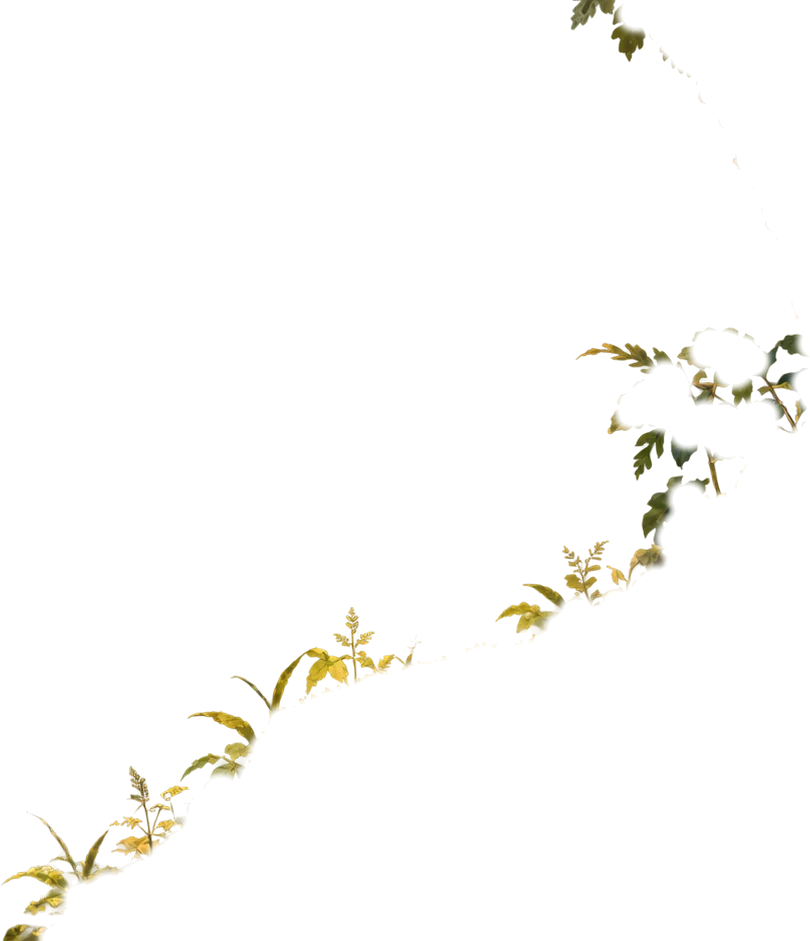
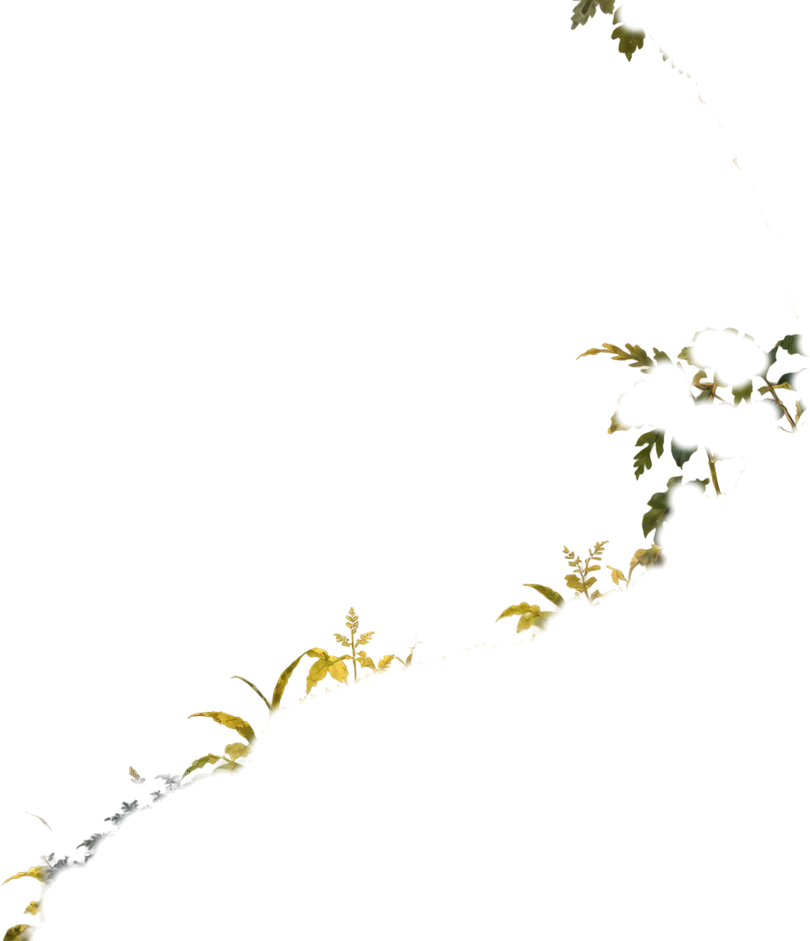
Update to layer set v7 (repainted duplicates, canopy edge, moon branch); legacy patches now opt-in, lighter foreground shade
Claude-Session: https://claude.ai/code/session_0178fiKuzCTDLTmbjUn3RG9Q

Changed region(s): [[0.0309, 0.8013, 0.3086, 1.0]]

diff --git a/me-mori-intro.html b/me-mori-intro.html
@@ -555,8 +555,8 @@
           { src:'assets/paper/forest3/03-trees-right-twigs.webp', x:764, y:0, w:810, h:941, ox:1560, oy:520, depth:0.25, sway:{ amp:0.45, period:6.6, bend:0.5, gust:1.1 } },
           { src:'assets/paper/forest3/lake.webp', x:70, y:351, w:1151, h:526, depth:0.2, className:'lake-ripple' },
           { src:'assets/paper/forest3/bank-beetle.webp', x:0, y:17, w:1672, h:924, depth:0.5 },
-          { src:'assets/paper/forest3/fg-shade.webp', x:0, y:294, w:1672, h:647, depth:.5 },
-          { src:'assets/paper/forest3/08-overhead-leaves.webp', x:496, y:0, w:694, h:210, ox:850, oy:-40, depth:0.45, shadow:true, sway:{ amp:0.45, period:8, bend:0.55 } },
+          { src:'assets/paper/forest3/fg-shade.webp', x:0, y:295, w:1672, h:646, depth:.5 },
+          { src:'assets/paper/forest3/08-overhead-leaves.webp', x:495, y:0, w:704, h:211, ox:850, oy:-40, depth:0.45, shadow:true, sway:{ amp:0.45, period:8, bend:0.55 } },
           { src:'assets/paper/forest3/09-foreground-left.webp', x:0, y:332, w:588, h:609, ox:150, oy:980, depth:1, sway:{ amp:0.5, period:7.5, bend:0.7 } },
           { src:'assets/paper/forest3/10-foreground-bottom.webp', x:578, y:726, w:704, h:215, ox:930, oy:990, depth:0.9, sway:{ amp:0.45, period:5.6, bend:0.75 } },
           { src:'assets/paper/forest3/11-foreground-right.webp', x:1217, y:728, w:455, h:213, ox:1500, oy:990, depth:0.9, sway:{ amp:0.5, period:6.4, bend:0.7 } }

diff --git a/tools/paper-cut/build_forest.py b/tools/paper-cut/build_forest.py
@@ -12,6 +12,7 @@ Prints the layer list (src, x, y, w, h) as JSON.
 import sys, json, numpy as np, cv2
 from PIL import Image
 SRC, OUT = sys.argv[1].rstrip('/') + '/', sys.argv[2].rstrip('/') + '/'
+LEGACY = '--legacy-fixes' in sys.argv   # patches for defects of layer set v6 (fixed in v7 art)
 W, H = 1672, 941
 def load(n): return np.array(Image.open(SRC + n + '.png').convert('RGBA'))
 def soften(a):
@@ -43,22 +44,26 @@ def save(im, name, opaque=False):
     meta[name] = dict(x=bb[0], y=bb[1], w=bb[2] - bb[0], h=bb[3] - bb[1])
 
 l08 = load('08-overhead-leaves')
-m = np.ones((H, W), np.float32); m[:27, 1148:] = 0; m = cv2.GaussianBlur(m, (0, 0), 2)
+m = np.ones((H, W), np.float32)
+if LEGACY: m[:27, 1148:] = 0; m = cv2.GaussianBlur(m, (0, 0), 2)
 l08[..., 3] = (soften(l08[..., 3]).astype(np.float32) * m).astype(np.uint8)
 l01c = load('01c-rear-tree-right')
-# the dark leaf clump above the moon ends in a straight cut (y~75): fade only that clump, keep the branch below
-fade = np.ones((H, W), np.float32)
-x0, x1 = 1040, 1165
-ys = np.arange(H, dtype=np.float32)
-ramp = 1 - np.clip((ys - 52) / 26, 0, 1)            # 1 above y=52 ... 0 at y=78
-dark = l01c[..., :3].astype(int).sum(2) < 210
-for y in range(52, 83):
-    row = dark[y, x0:x1]
-    fade[y, x0:x1][row] = ramp[y]
-fade = cv2.GaussianBlur(fade, (0, 0), 2.5)
-a01c = soften(l01c[..., 3]).astype(np.float32)
-a01c = cv2.GaussianBlur(a01c, (0, 0), 1.2) * 0.6 + a01c * 0.4   # extra smoothing for stair-stepped edges
-l01c[..., 3] = np.clip(a01c * fade, 0, 255).astype(np.uint8)
+if LEGACY:
+    # the dark leaf clump above the moon ends in a straight cut (y~75): fade only that clump, keep the branch below
+    fade = np.ones((H, W), np.float32)
+    x0, x1 = 1040, 1165
+    ys = np.arange(H, dtype=np.float32)
+    ramp = 1 - np.clip((ys - 52) / 26, 0, 1)            # 1 above y=52 ... 0 at y=78
+    dark = l01c[..., :3].astype(int).sum(2) < 210
+    for y in range(52, 83):
+        row = dark[y, x0:x1]
+        fade[y, x0:x1][row] = ramp[y]
+    fade = cv2.GaussianBlur(fade, (0, 0), 2.5)
+    a01c = soften(l01c[..., 3]).astype(np.float32)
+    a01c = cv2.GaussianBlur(a01c, (0, 0), 1.2) * 0.6 + a01c * 0.4   # extra smoothing for stair-stepped edges
+    l01c[..., 3] = np.clip(a01c * fade, 0, 255).astype(np.uint8)
+else:
+    l01c[..., 3] = soften(l01c[..., 3])
 t02, w02 = split(load('02-trees-left'))
 t03, w03 = split(load('03-trees-right'))
 # rear trees are far away: keep them whole and still (their split-off twigs looked like loose fragments)
@@ -74,10 +79,11 @@ save(load('06-beetle-head'), '06-beetle-head')
 fg = [load(n) for n in ['09-foreground-left', '10-foreground-bottom', '11-foreground-right']]
 a_fg = np.max(np.stack([f[..., 3] for f in fg]), 0).astype(np.float32) / 255
 reach = cv2.dilate((a_fg > .08).astype(np.uint8), cv2.getStructuringElement(cv2.MORPH_ELLIPSE, (31, 31))).astype(np.float32)
-cover = np.clip(cv2.GaussianBlur(np.maximum(reach * .85, a_fg), (0, 0), 9) * 1.15, 0, 1)
+SHADE = 1.0 if LEGACY else 0.8                      # v7 art has far fewer duplicates: lighter cover
+cover = np.clip(cv2.GaussianBlur(np.maximum(reach * .85, a_fg), (0, 0), 9) * 1.15, 0, 1) * SHADE
 below = np.array(over(load('01-background'), load('01b-rear-tree-left'), l01c, t02, w02, t03, w03, load('04-lake'),
                       load('05-main-bank'), load('07-beetle-body')).convert('RGB')).astype(np.float32)
-soft = cv2.GaussianBlur(below, (0, 0), 14) * .5
+soft = cv2.GaussianBlur(below, (0, 0), 14) * (.5 if LEGACY else .62)
 shade = np.dstack([np.clip(soft, 0, 255), cover * 255]).astype(np.uint8)
 save(shade, 'fg-shade')
 save(l08, '08-overhead-leaves')
